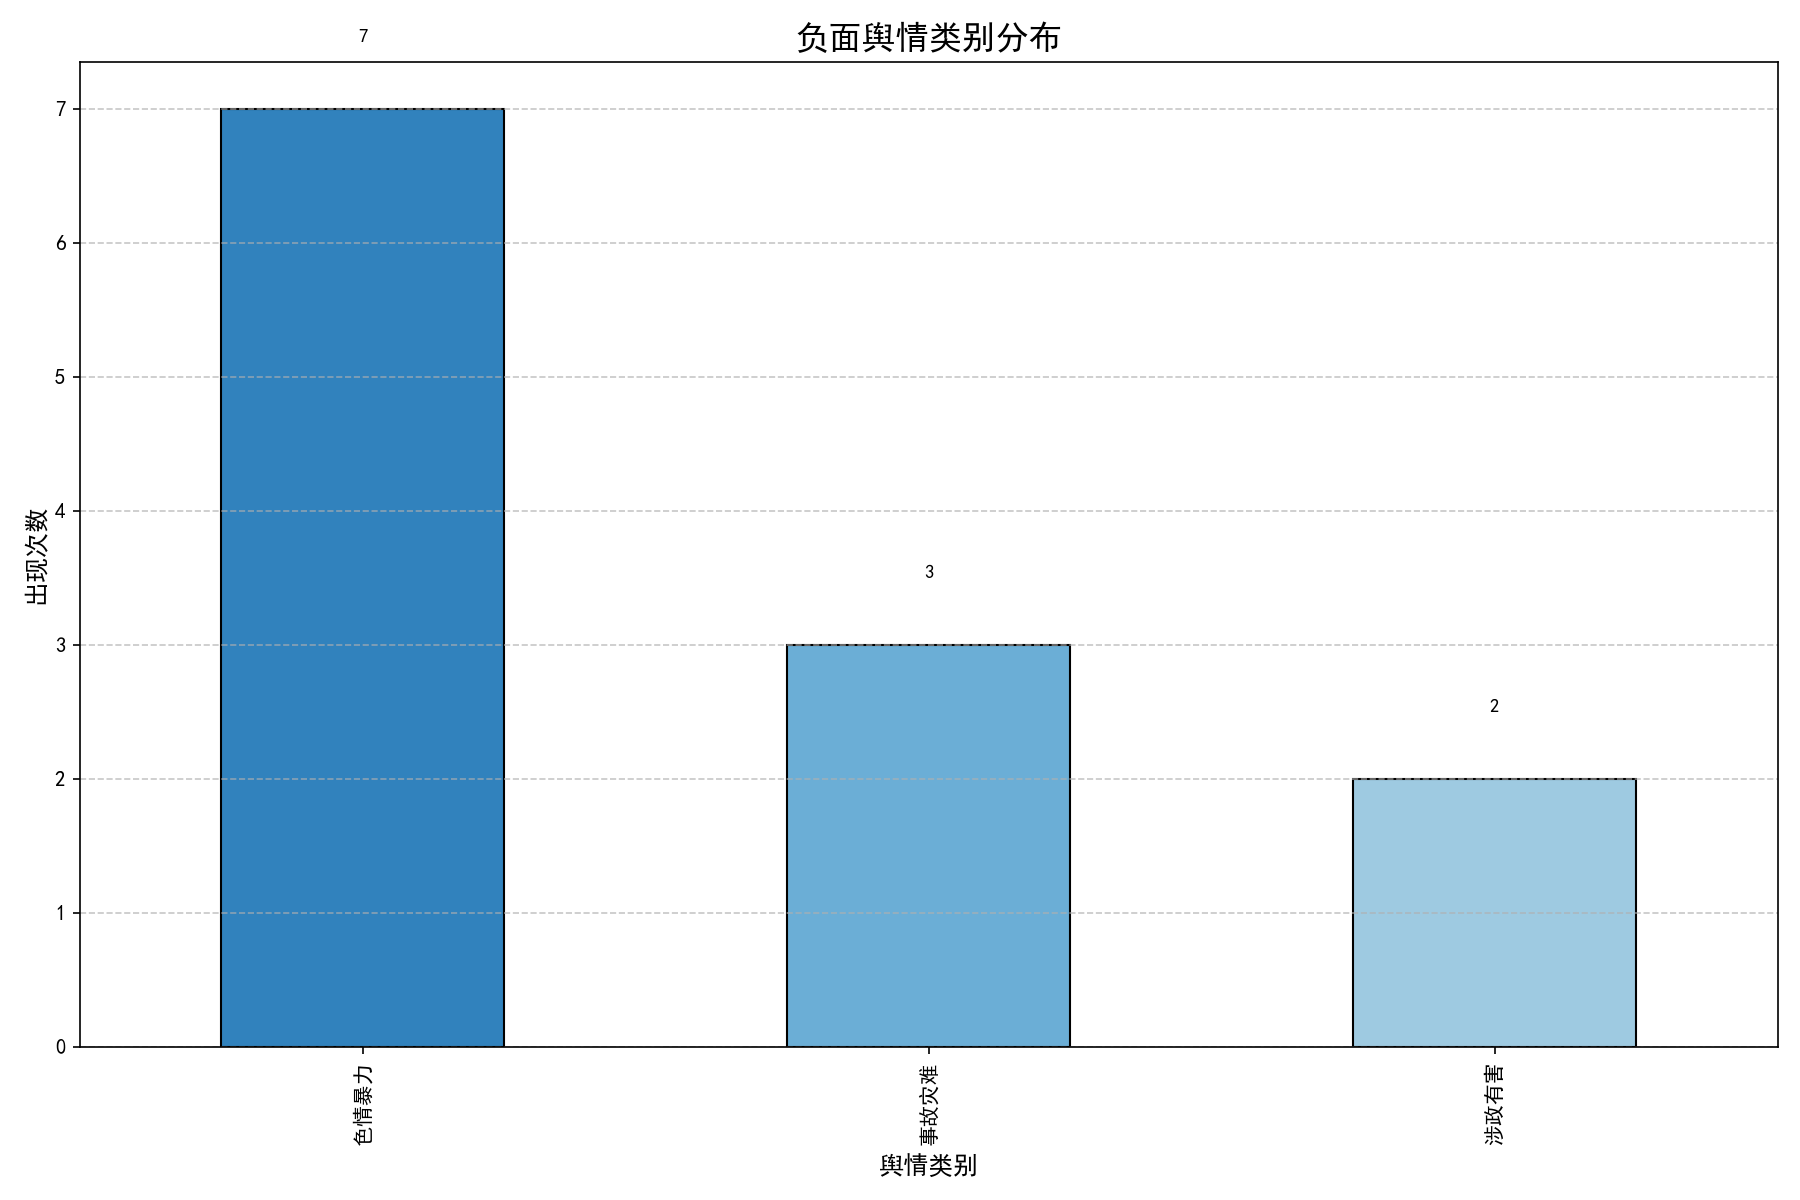
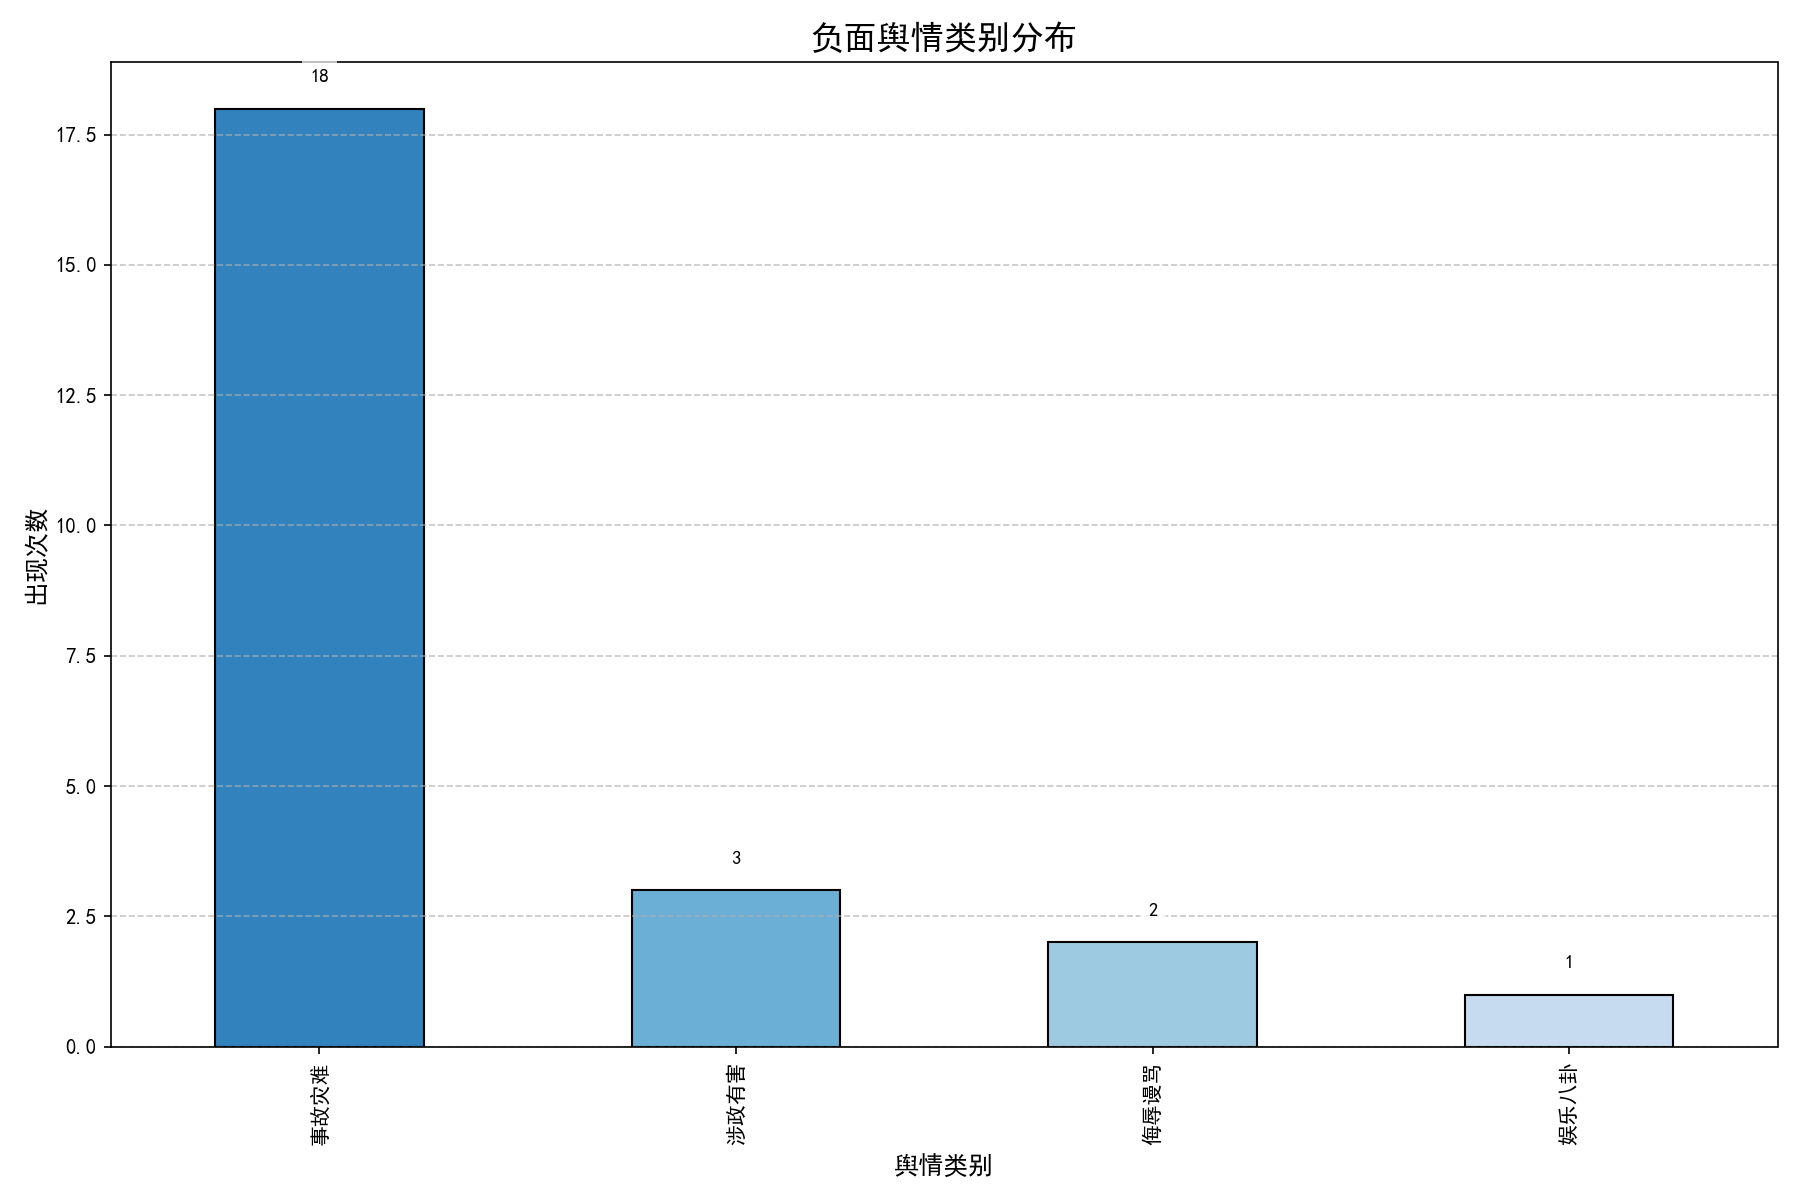
更新bilibili相关功能

diff --git a/bilibili.py b/bilibili.py
@@ -1,3 +1,11 @@
+"""
+替换cookie为您的cookie（F12）
+如果出现412错误请刷新cookie重试
+经测试过可以实现所要求的各项功能
+包括选择主题与选择uid
+已上传至https://github.com/miletcxl/crawling_comment_of_Bilibili
+-----------QWQ-----------
+"""
 import os
 import re
 import time
@@ -22,7 +30,7 @@ import warnings
 warnings.filterwarnings("ignore")
 
 #身份认证
-COOKIE = "SESSDATA=6a9aad97%2C1766123697%2Ca801f%2A62CjBuyykoevdRVH8u4GokSiGwCaTX7EHbvhNuyl9oBSq2kz5zA8v1DnmuizzG2aCFBKUSVnN2QzZpbmptVlpZajJHWElnaXV2SC15aE81cVpISHvXU0pfRVNYYkdwMW5ZOVJRUGpDMThWRkZid2gyb1YyM1RJdHJWV1BHLVp1clIyb0NteDBxWkRRIIEC; buvid3=078B37F8-2329-7FEC-8B95-A425D0A1BC2757995infoc"  # ⚠填你自己浏览器复制的 Cookie（已登录 B 站）
+COOKIE = "SESSDATA=b48d2ec1%2C1766397652%2C0117f%2A62CjBZQIcetaAQWAngx91p2LUDZw7iMOa4tQiH4lFjgP1AmUJf3ti-BBd8YYSBr2kQXc8SVjFCczRPV0R0U2U3ZkJTS19XeE1ENm9tUVN5eWpJUUhLRTQ3UUxsc1FzeTVhY0hGMEhIMlRGZ29QXzN5Q01CaDljSUNwMldDNUJmOUlWT2xhY1dOUnlBIIEC; buvid3=078B37F8-2329-7FEC-8B95-A425D0A1BC2757995infoc"
 HEADERS = {
     "User-Agent": "Mozilla/5.0 (Windows NT 10.0; Win64; x64) AppleWebKit/537.36 (KHTML, like Gecko) Chrome/125.0.0.0 Safari/537.36",
     "Referer": "https://www.bilibili.com/",
@@ -41,7 +49,8 @@ NEGATIVE_KEYWORDS = {
                 "反政府", "反体制", "反共", "反华", "反社会", "言论封锁", "政治清洗", "镇压", "暴力执法",
                 "异见人士", "非法组织", "颠覆政权", "极端思想", "自由", "法轮功", "民运", "西方渗透",
                 "敏感词", "境外势力", "煽动仇恨", "反贼", "抵制中央", "非法集资", "政权腐败", "人权问题",
-                "强拆", "黑警", "维稳", "退党", "集体请愿", "境外网站", "网信办", "删帖", "封号"],
+                "强拆", "黑警", "维稳", "退党", "集体请愿", "境外网站", "网信办", "删帖", "封号""颠覆政体", "境外干预", "暗网政治", "非法言论", "境外反华", "敏感事件", "新闻封锁", "删帖控评", "封号潮", "政治黑幕",
+                "替天行道", "革命火种", "翻墙", "网攻政府", "网络暴民", "暴政机器", "特权阶层", "执法黑幕", "政治献金", "非法游说"],
 
     "侮辱谩骂": ["傻逼", "狗东西", "废物", "死全家", "滚", "去死", "人渣", "畜生", "妈的", "白痴",
                 "废柴", "贱人", "贱货", "婊子", "死妈", "舔狗", "脑瘫", "神经病", "垃圾", "弱智",
@@ -49,28 +58,32 @@ NEGATIVE_KEYWORDS = {
                 "狗崽子", "饭桶", "草你妈", "你妈死了", "你全家死", "去你妈的", "死逼", "癞蛤蟆",
                 "孬种", "丧家犬", "败类", "下贱", "下三滥", "臭不要脸", "白眼狼", "贱骨头", "懒蛤蟆",
                 "无脑", "蠢货", "阴阳怪气", "穷鬼", "臭虫", "舔老", "臭傻子", "烂人", "二货", "臭不要脸",
-                "睿智", "暴躁老哥", "狗头", "抬杠精"],
+                "睿智", "暴躁老哥", "狗头", "抬杠精","nt", "脑瘤", "狗东西", "低能儿", "烂货", "丧尽天良", "疯狗", "你个傻叉", "你配吗", "废话连篇",
+                "满嘴喷粪", "杠精", "键盘侠", "脑袋进水", "你是来搞笑的吗", "你有病吧", "二百五", "撒比", "大傻子", "真他妈","cs"],
 
     "色情暴力": ["色情", "强奸", "性侵", "猥亵", "淫秽", "裸照", "露点", "性骚扰", "自慰", "做爱",
                 "啪啪啪", "AV", "黄片", "胸大", "屁股", "色狼", "色鬼", "骚", "胸器", "性交易",
                 "援交", "嫖娼", "卖淫", "淫乱", "女优", "乱伦", "肉体", "小黄片", "床戏", "漏点",
                 "性奴", "调教", "射精", "成人片", "啪啪啪", "走光", "偷窥", "拍裸照", "SM", "乳沟",
                 "处女", "小姐", "情趣", "内衣诱惑", "裸聊", "网黄", "直播造黄", "绳虐", "激情戏", "羞耻play",
-                "暴力", "杀人", "砍人", "血腥", "虐杀"],
+                "暴力", "杀人", "砍人", "血腥", "虐杀","湿身", "大尺度", "肉欲", "性癖", "捆绑play", "开房", "约P", "啪啪视频", "巨乳", "车震",
+                "乳摇", "漏毛", "舔胸", "舌吻", "69式", "菊花残", "情趣用品", "丝袜诱惑", "黑丝", "强暴"],
 
     "事故灾难":["爆炸", "火灾", "车祸", "空难", "沉船", "矿难", "地震", "台风", "洪水", "泥石流",
                 "山体滑坡", "雪崩", "瘟疫", "疫情", "死亡", "伤亡", "重伤", "灾难", "核泄漏", "核污染",
                 "灾害", "崩塌", "毒气", "泄露", "污染", "毒奶粉", "疫苗事故", "踩踏", "食物中毒", "病逝",
                 "病故", "病倒", "病危", "医患冲突", "医闹", "地铁事故", "桥梁倒塌", "船翻", "航班失联", "恶劣天气",
                 "山洪", "飓风", "水灾", "塌方", "爆破", "高温中暑", "溺水", "失踪", "毒酒", "中毒",
-                "电梯事故", "化学泄漏"],
+                "电梯事故", "化学泄漏","爆雷", "金融危机", "校园暴力", "塌楼", "煤气爆炸", "高空坠物", "失火", "食安事故", "疫苗异常", "公共安全事故",
+                "群死群伤", "重大安全事故", "连环车祸", "重大伤亡", "突发事故", "重大隐患", "系统瘫痪", "重大故障", "交通瘫痪"],
 
     "聚集维权": ["游行", "示威", "罢工", "请愿", "集会", "维权", "抗议", "堵路", "堵门", "占领",
                 "静坐", "围堵", "暴动", "冲突", "警民冲突", "清场", "抓捕", "非法集会", "非暴力不合作", "举报腐败",
                 "上访", "堵桥", "围殴", "退房维权", "业主维权", "教师维权", "业主抗议", "校园抗议", "城管暴力", "逼迁",
                 "社保断缴", "强拆", "断水断电", "政府失责", "群体事件", "农民维权", "企业维权", "讨薪", "集体罢工", "歇业抗议",
                 "押金维权", "职工维权", "消费者维权", "业主群", "群体上访", "打横幅", "工地维权", "小区停工", "封门抗议", "罢市",
-                "罢课", "交通阻断", "高楼抛物"],
+                "罢课", "交通阻断", "高楼抛物","网络维权", "集体维权", "业主聚集", "罢免", "声援", "组织集会", "举牌", "上街抗议", "横幅抗议", "举报无门",
+                "维权事件", "堵小区", "围住政府", "校园请愿", "集体维权行动", "业主联盟", "工人维权", "网暴政府", "民间团体"],
 
 
     "娱乐八卦": ["出轨", "绯闻", "劈腿", "小三", "离婚", "分手", "私生饭", "吸毒", "嫖娼", "偷税",
